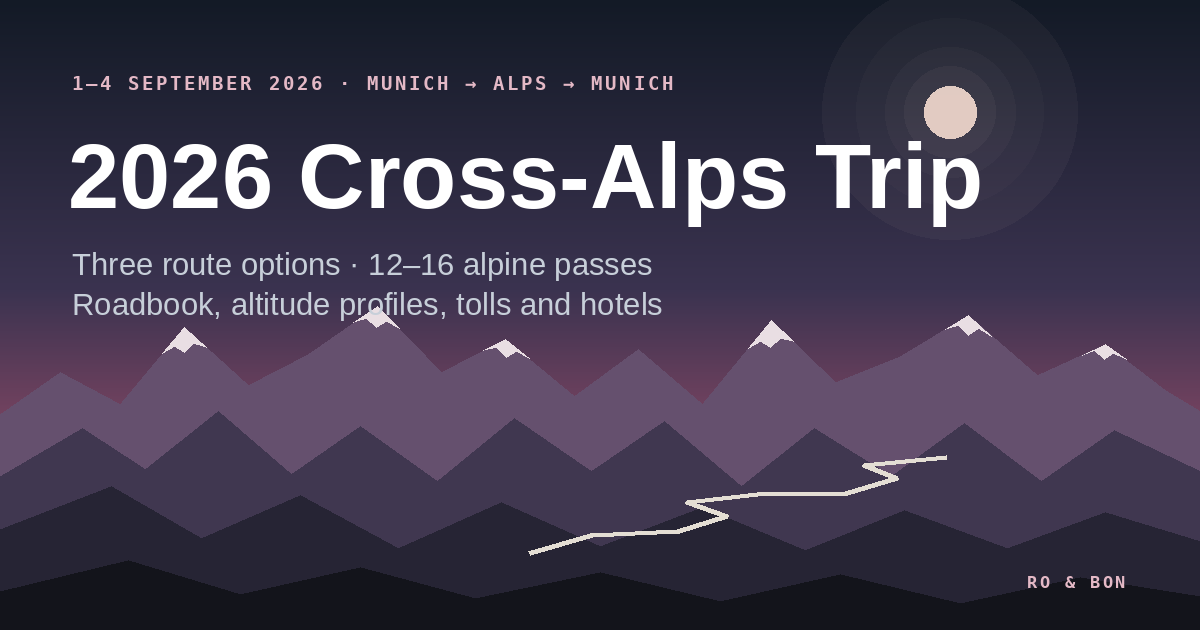
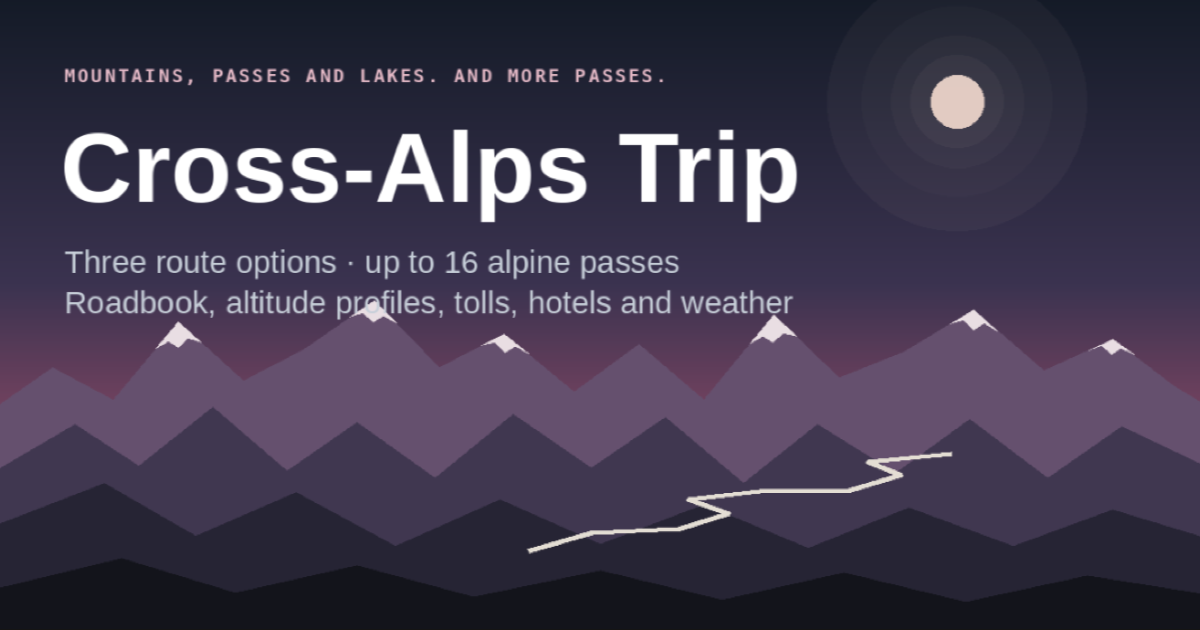
New link preview image; put the option strip back
og.png replaced with the new artwork, scaled from the supplied 1084x561
to height 630 and centre-cropped to exactly 1200x630 — about eight
pixels off each side, well inside the margins, nothing clipped.

Reverts hiding the option strip inside a day section. It is the only
place the route is chosen, so it stays in the sticky header throughout,
with the selection marked as before. The compact day heading stays.

Claude-Session: https://claude.ai/code/session_01H3fWUh9iQgBydY4H6JzNH8

diff --git a/index.html b/index.html
@@ -540,8 +540,6 @@
     .day-head .when{flex-direction:column;align-items:flex-end;gap:0;margin-left:auto;flex:0 0 auto;
       font-size:9px;letter-spacing:.07em;line-height:1.35}
     .daydot{width:8px;height:8px;margin-right:6px}
-    /* the option strip has done its job once you are inside a day */
-    header.compact.inday .switch{display:none}
   }
   @media (max-height:560px){
     .day-head h3{font-size:14.5px}
@@ -2082,15 +2080,6 @@ function syncHeader(){
   const hdr=document.getElementById('hdr');
   const banner=document.querySelector('.banner');
   hdr.classList.toggle('compact', window.scrollY > (banner?banner.offsetHeight*0.55:80));
-  /* inside a day section the day heading is the label that matters, so the
-     option strip can stand down and give the room back */
-  let inDay=false;
-  const probe=hdr.offsetHeight+8;
-  document.querySelectorAll('section.sec.day').forEach(sec=>{
-    const r=sec.getBoundingClientRect();
-    if(r.top<=probe && r.bottom>probe) inDay=true;
-  });
-  hdr.classList.toggle('inday', inDay);
   document.documentElement.style.setProperty('--hdrH', hdr.offsetHeight+'px');
   const h=hdr.offsetHeight+8; let active=null;
   document.querySelectorAll('#secnav a').forEach(a=>{
